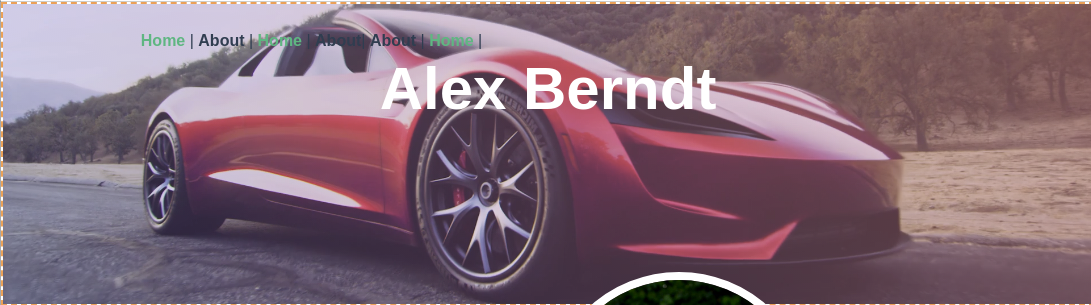
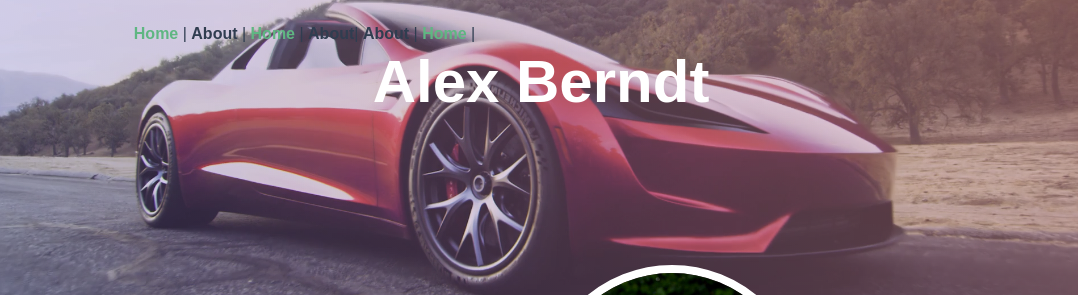
Added bootstrap

diff --git a/src/components/VideoHeader.vue b/src/components/VideoHeader.vue
@@ -1,5 +1,5 @@
 <template>
-  <div class="container">
+  <!-- <div class="container-fluid"> -->
     <video-background 
         :src="require(`@/assets/roadster-loop-imperial.mp4`)"
         :poster="require(`@/assets/main_static.png`)"
@@ -9,11 +9,16 @@
         class="container">
         <h1 id="heading">{{ msg }}</h1>
     </video-background>
-  </div>
+  <!-- </div> -->
 </template>
+
+
 
 <script>
 import VideoBackground from 'vue-responsive-video-background-player'
+
+// 
+// 
 
 export default {
   name: 'VideoHeader',
@@ -28,21 +33,8 @@ export default {
 
 <!-- Add "scoped" attribute to limit CSS to this component only -->
 <style scoped lang="scss">
-#heading {
-    font-size: 60px;
-    color: white;
-}
-div {
-  position: absolute;
-  top:0px;
-  left: 0px;
-  width: 100%;
-  text-align: center;
-//   border: 4px dashed #f69c55;
-}
-span {
-  display: inline-block;
-  vertical-align: middle;
-  line-height: normal;
+.container {
+    max-width: 100%;
+    padding: 0px;
 }
 </style>

diff --git a/src/App.vue b/src/App.vue
@@ -1,6 +1,6 @@
 <template>
-  <div>
-    <VideoHeader msg="Alex Berndt"/>
+  <VideoHeader msg="Alex Berndt"/>
+  <div class="container-fluid">
     <ProfilePicture/>
     <Router/>
   </div>
@@ -33,17 +33,8 @@ export default {
   text-align: center;
   color: #2c3e50;
 }
-
-#nav {
-  position: relative;
-  top: 305px;
-  a {
-    font-weight: bold;
-    color: #2c3e50;
-    &.router-link-exact-active {
-      color: #42b983;
-    }
-    text-decoration: none;
-  }
+.container-fluid {
+    padding: 0px;
+    margin: 0px;
 }
 </style>

diff --git a/src/components/ProfilePicture.vue b/src/components/ProfilePicture.vue
@@ -17,15 +17,12 @@ export default {
 <!-- Add "scoped" attribute to limit CSS to this component only -->
 <style scoped lang="scss">
 #profilepicture {
-    top: 160px;
-    position: relative;
-    width: 250px;
-    height: 250px;
+    width: 200px;
+    height: 200px;
     // overflow: hidden;
     object-fit:cover;
     border-radius: 50%;
-    border: 10px dashed #f69c55;
-    // border: 8px solid #FFF;
+    // border: 2px dashed #f69c55;
     z-index: 0;
 }
 </style>

diff --git a/src/components/Router.vue b/src/components/Router.vue
@@ -15,8 +15,20 @@ export default {
 }
 </script>
 
-<style lang="scss">
-.router {
-  border: 2px dashed #f69c55;
+<style scoped lang="scss">
+// .router {
+//   border: 2px dashed #f69c55;
+// }
+#nav {
+  position: relative;
+  top: 305px;
+  a {
+    font-weight: bold;
+    color: #2c3e50;
+    &.router-link-exact-active {
+      color: #42b983;
+    }
+    text-decoration: none;
+  }
 }
 </style>

diff --git a/src/main.js b/src/main.js
@@ -3,4 +3,13 @@ import App from './App.vue'
 import router from './router'
 import store from './store'
 
-createApp(App).use(store).use(router).mount('#app')
+import 'bootstrap'
+import 'bootstrap/dist/css/bootstrap.min.css'
+import 'bootstrap/dist/js/bootstrap.min.js'
+
+const app = createApp(App)
+
+app.use(store)
+app.use(router)
+
+app.mount('#app')

diff --git a/src/components/Footer.vue b/src/components/Footer.vue
@@ -1,6 +1,7 @@
 <template>
   <div class="container">
     <h3>{{ msg }}</h3>
+    <p>2021</p>
   </div>
 </template>
 
@@ -16,5 +17,7 @@ export default {
 
 <!-- Add "scoped" attribute to limit CSS to this component only -->
 <style scoped lang="scss">
-
+// div {
+//     background-color: wheat;
+// }
 </style>

diff --git a/src/views/About.vue b/src/views/About.vue
@@ -18,8 +18,8 @@ export default {
 }
 </script>
 
-<style lang="scss">
-.about {
-  border: 2px dashed #f69c55;
-}
+<style scoped lang="scss">
+// .about {
+//   border: 2px dashed #f69c55;
+// }
 </style>

diff --git a/src/views/Home.vue b/src/views/Home.vue
@@ -17,8 +17,8 @@ export default {
 }
 </script>
 
-<style lang="scss">
-.home {
-  border: 2px dashed #f69c55;
-}
+<style scoped lang="scss">
+// .home {
+//   border: 2px dashed #f69c55;
+// }
 </style>
